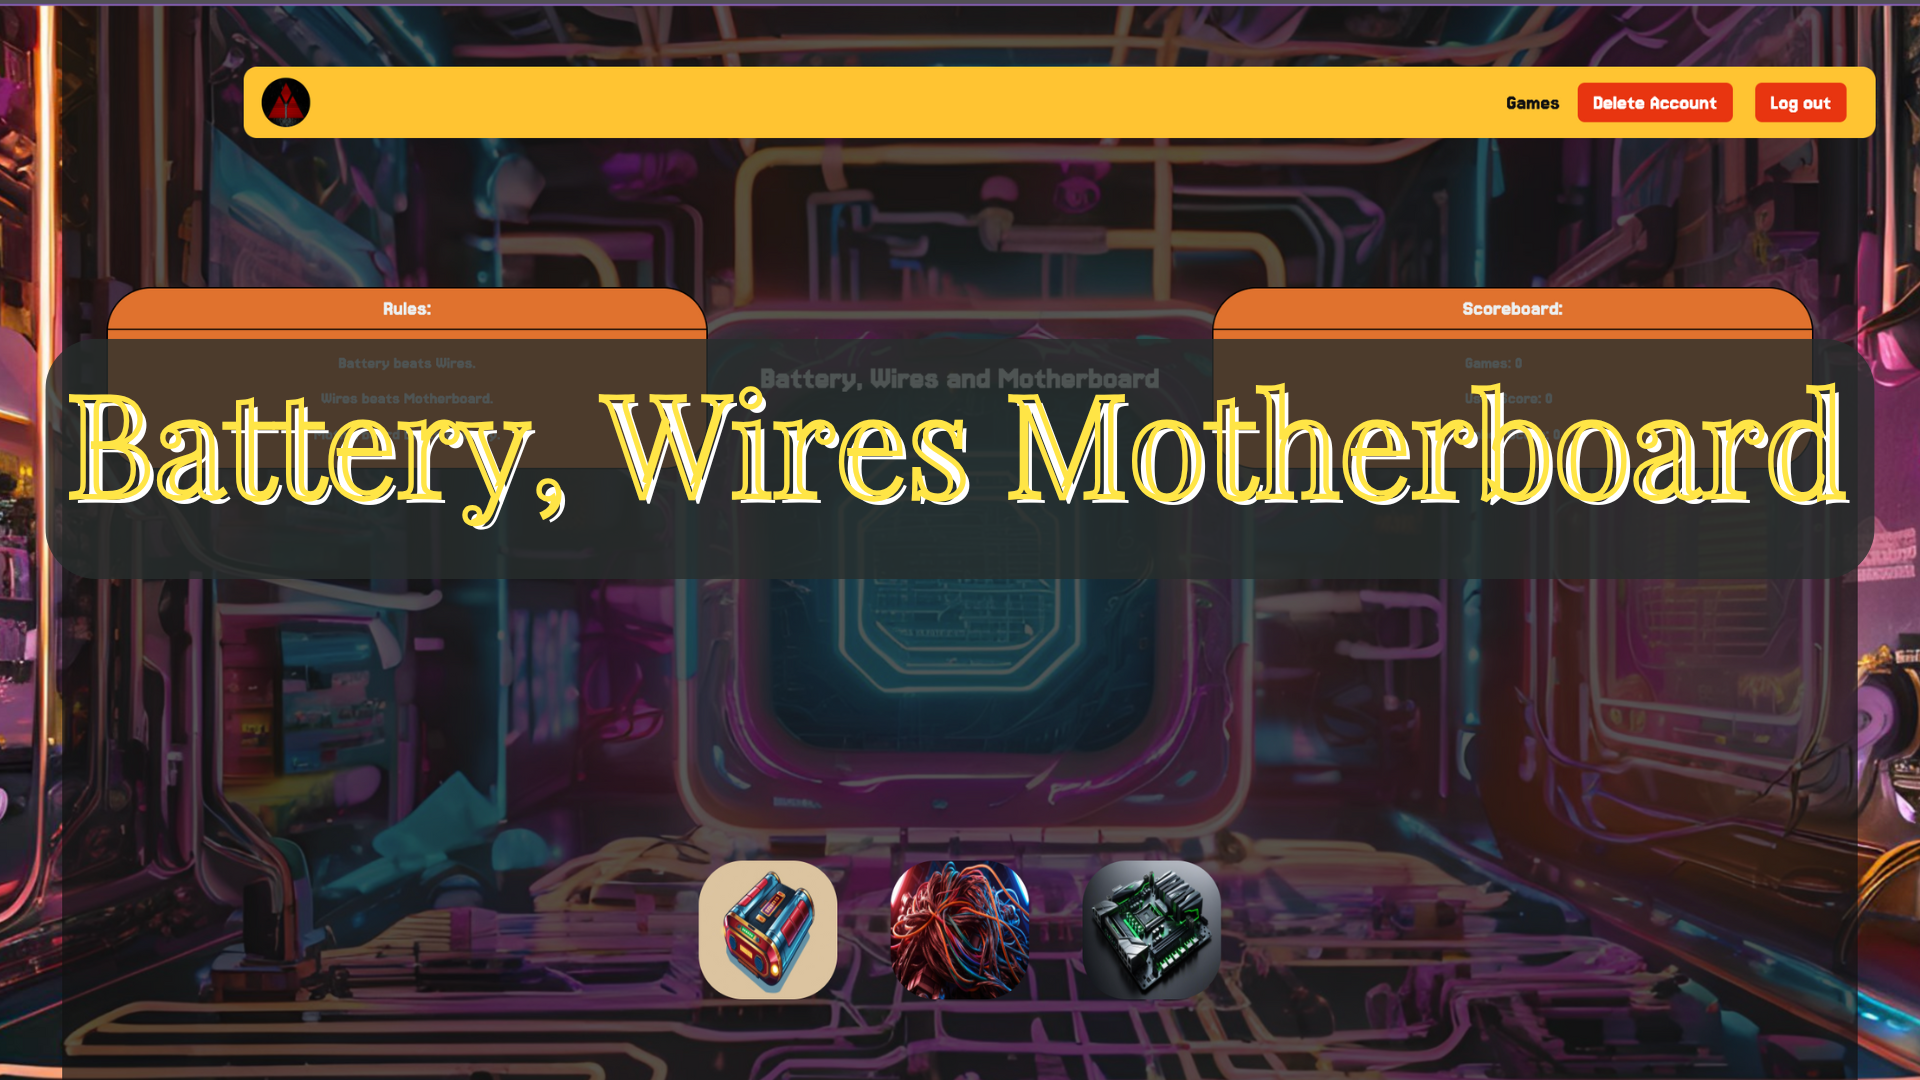
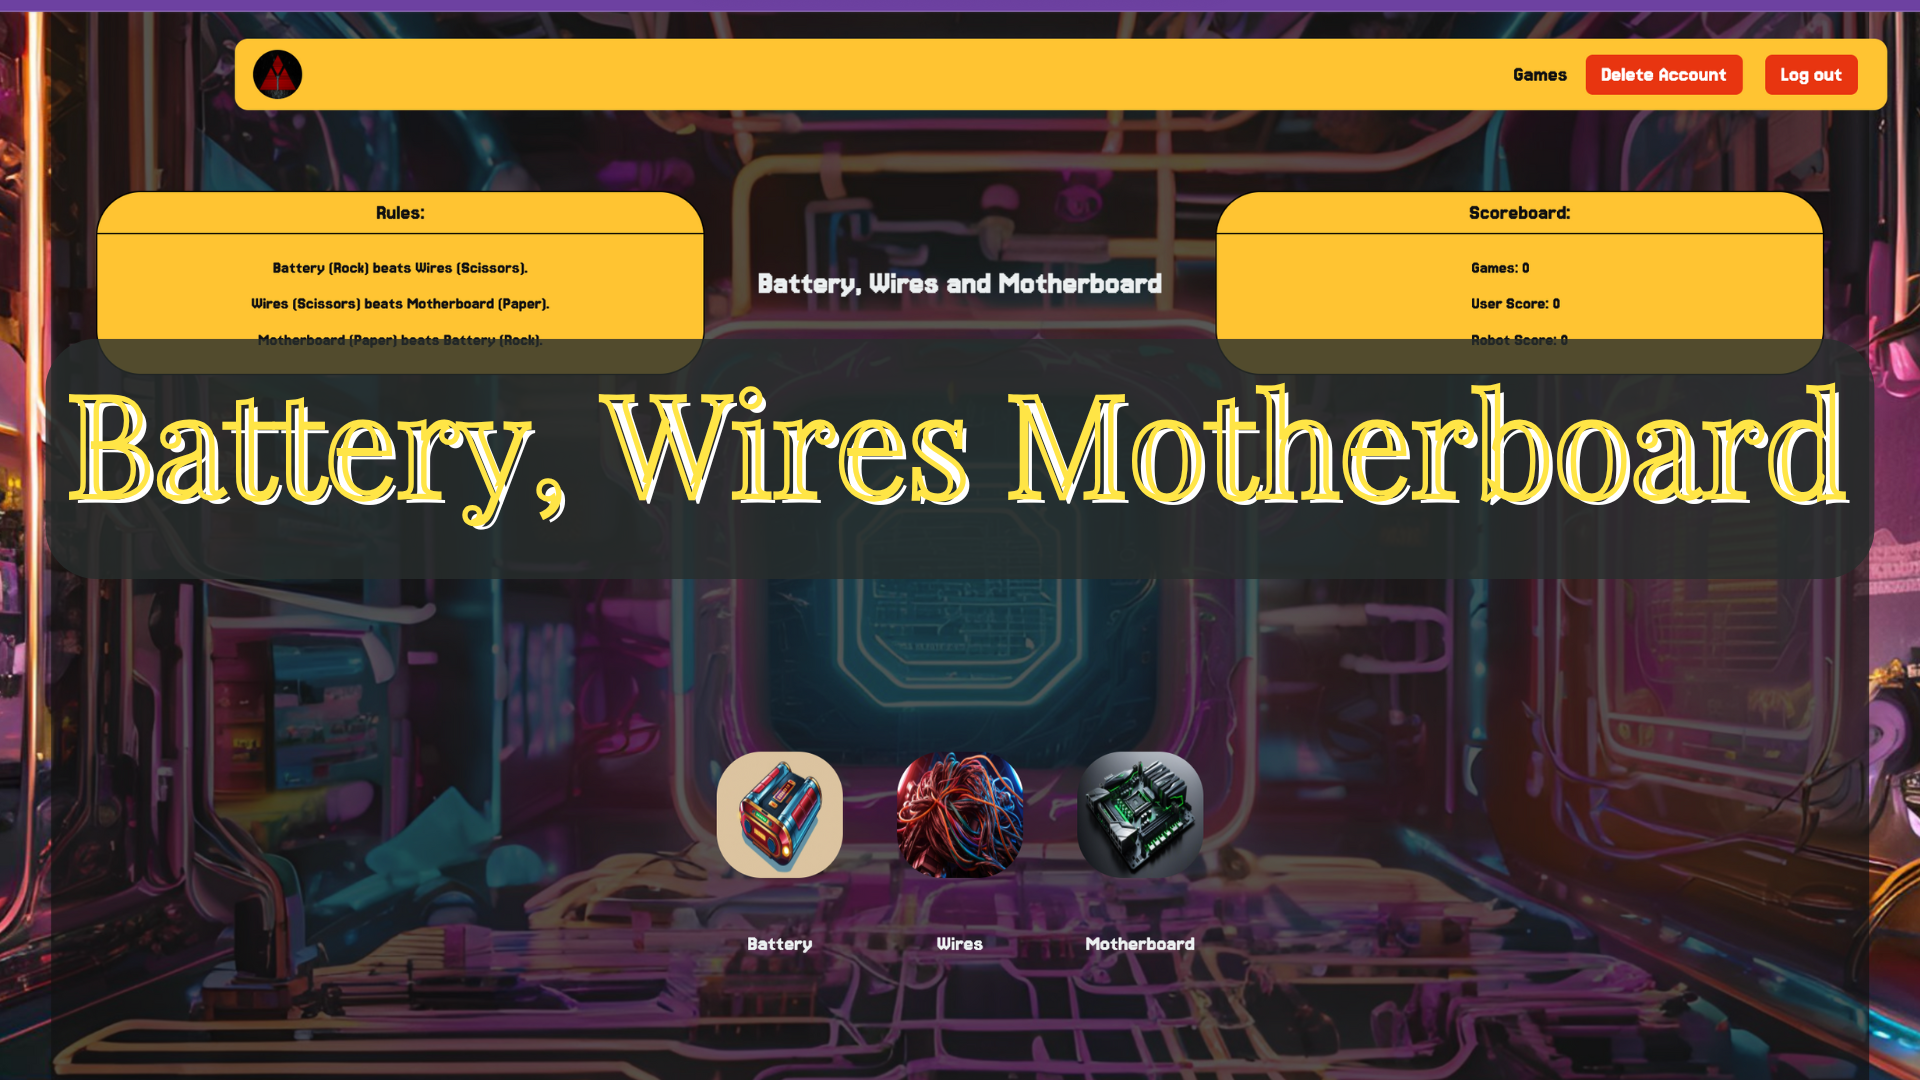
blackjack background added, game selection updated

diff --git a/frontend/src/pages/BlackJack/BlackJack.css b/frontend/src/pages/BlackJack/BlackJack.css
@@ -1,30 +1,45 @@
-body {
+/* body {
   margin: 0;
   padding: 0;
   box-sizing: border-box;
   font-family: "Arial, sans-serif";
   background-color: #8e44ad; /* Purple background */
-  color: #ecf0f1;
+  /* color: #ecf0f1; */
+/* }  */
+
+#blackjack-page{
+bottom: 0;
+    left: 0;
+    width: 100vw;
+    min-height: 100vh;
+    padding: 0;
+    background-image: url('/blackjackBackground.png');
+    background-size: cover;
+    background-position: center;
+
+    display: flex;
+    justify-content: center;
+    align-items: center;
 }
 
-h1 {
+#blackjack-page h1 {
   font-size: 3rem;
   margin-bottom: 20px;
   color: #f39c12;
   text-shadow: 2px 2px 4px rgba(0, 0, 0, 0.5);
 }
 
-.game-container {
+#blackjack-page .game-container {
   text-align: center;
   margin: 40px auto;
-  max-width: 600px;
-  background: #9b59b6; /* Lighter purple for the container */
+  max-width: 800px;
+  background: rgb(155, 89, 182, 0.9); /* Lighter purple for the container */
   border-radius: 10px;
   padding: 20px;
   box-shadow: 0 4px 8px rgba(0, 0, 0, 0.3);
 }
 
-button {
+#blackjack-page button {
   background-color: #e0722e;
   color: white;
   border: none;
@@ -36,11 +51,11 @@ button {
   transition: background-color 0.3s ease;
 }
 
-button:hover {
+#blackjack-page button:hover {
   background-color: #cd5307;
 }
 
-button:disabled {
+#blackjack-page button:disabled {
   background-color: #95a5a6;
   cursor: not-allowed;
 }

diff --git a/frontend/src/pages/BlackJack/BlackJack.jsx b/frontend/src/pages/BlackJack/BlackJack.jsx
@@ -3,6 +3,7 @@ import { useNavigate, useLocation } from "react-router-dom";
 import { updateRobotCurrency } from "../../services/robot";
 import "./Blackjack.css";
 
+
 const Blackjack = () => {
   const [deck, setDeck] = useState(createDeck());
   const [playerHand, setPlayerHand] = useState([]);
@@ -138,7 +139,7 @@ const Blackjack = () => {
 
   useEffect(() => {
     if (gamesPlayed >= 8) {
-      navigate("/landingpage");
+      navigate("/gameselection", {state: {robotId: robotId}});
     }
   }, [gamesPlayed, navigate]);
 
@@ -155,7 +156,7 @@ const Blackjack = () => {
         try {
           const response = await updateRobotCurrency(robotId, cash);
           if (response.message === "robot currency updated") {
-            navigate("/landingpage");
+            navigate("/gameselection", {state: {robotId: robotId}});
           }
         } catch (error) {
           console.error("Error updating currency:", error);
@@ -174,6 +175,7 @@ const Blackjack = () => {
 
 
   return (
+    <div id="blackjack-page">
     <div className="game-container">
       <h1>Blackjack Game</h1>
       <div>
@@ -211,6 +213,7 @@ const Blackjack = () => {
           </button>
         )}
       </div>
+    </div>
     </div>
   );
 };

diff --git a/frontend/src/pages/GameSelection/GameSelection.css b/frontend/src/pages/GameSelection/GameSelection.css
@@ -10,19 +10,15 @@
     background-image: url('/gameSelectionBackground.png');
 }
 
-#games-to-select{
-    display: grid;
-    grid-template-columns: repeat(3, 1fr); 
-    grid-gap: 20px; 
-    justify-items: center; 
-    margin: 20px auto; 
-    max-width: 1200px;
-}
 
-#games-to-select > div {
-    position: relative;
-    width: 300px;
-    height: 200px;
+#games-to-select {
+    display: grid;
+    grid-template-columns: repeat(4, 1fr);
+    grid-auto-rows: auto;
+    grid-gap: 20px;
+    justify-items: center;
+    margin: 20px auto;
+    max-width: 1200px;
 }
 
 
@@ -223,5 +219,35 @@
 }
 
 #snake-preview-container:hover .gif {
+    display: block;
+}
+
+/* blackjack */
+#blackjack-container {
+    position: relative;
+    width: 300px;
+    height: 200px;
+}
+
+#blackjack-container .image {
+    width: 100%;
+    height: 100%;
+    display: block;
+}
+
+#blackjack-container .gif {
+    position: absolute;
+    top: 0;
+    left: 0;
+    width: 100%;
+    height: 100%;
+    display: none;
+}
+
+#blackjack-container:hover .image {
+    display: none;
+}
+
+#blackjack-container:hover .gif {
     display: block;
 }

diff --git a/frontend/src/pages/GameSelection/GameSelectionPage.jsx b/frontend/src/pages/GameSelection/GameSelectionPage.jsx
@@ -139,16 +139,28 @@ export function GameSelection() {
             />
 
         </div>
-
-            <button
+            <div id="blackjack-container">
+            <img
+            className="image"
+            src="./blackjackSelect.png"
             onClick={() => {navigate('/blackjack', {
                 state: {
                     robotId: robotId
                 }
             })}}
-            >
-                blackjack
-            </button>
+            />
+
+            <img
+            className="gif"
+            src="./blackjackSelectVid.gif"
+            onClick={() => {navigate('/blackjack', {
+                state: {
+                    robotId: robotId
+                }
+            })}}
+            />
+
+            </div>
 
         </div>
     </div>
